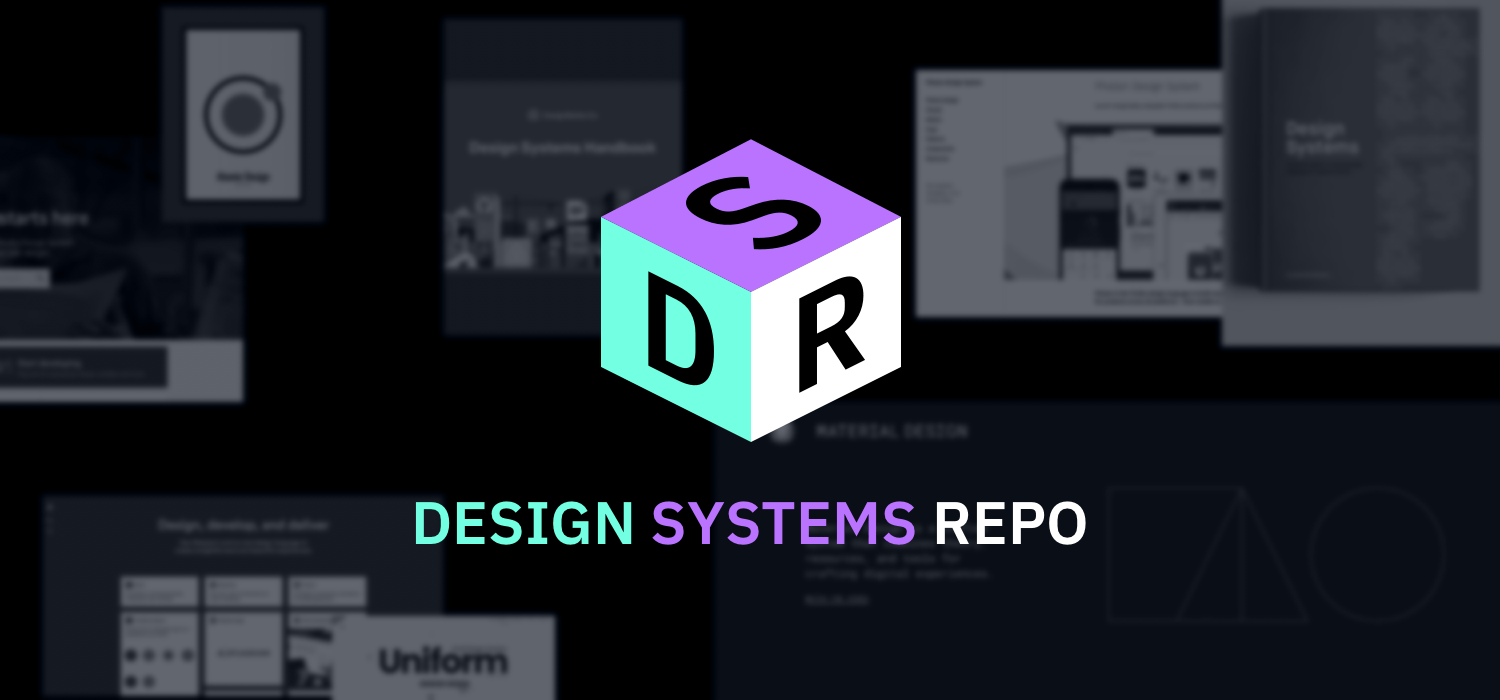
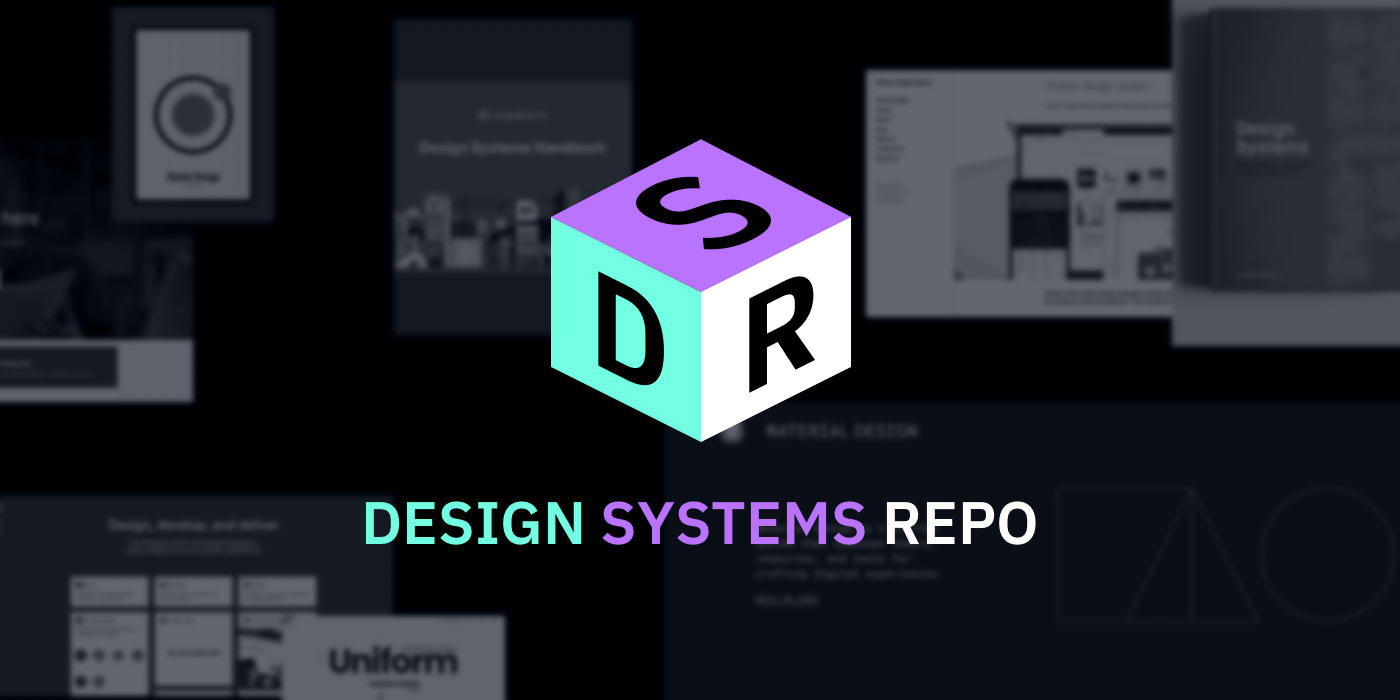
Update meta img

diff --git a/src/index.html b/src/index.html
@@ -13,7 +13,7 @@
     <meta property="og:description" content="An organized and frequently updated collection of Design System examples, resources, tools, articles and videos.">
     <meta property="og:image" content="https://designsystemsrepo.com/social.png">
     <meta property="og:image:type" content="image/png">
-    <meta property="og:image:width" content="1500">
+    <meta property="og:image:width" content="1400">
     <meta property="og:image:height" content="750">
     <meta name="twitter:card" content="summary">
     <meta name="twitter:site" content="@jadlimcaco">
